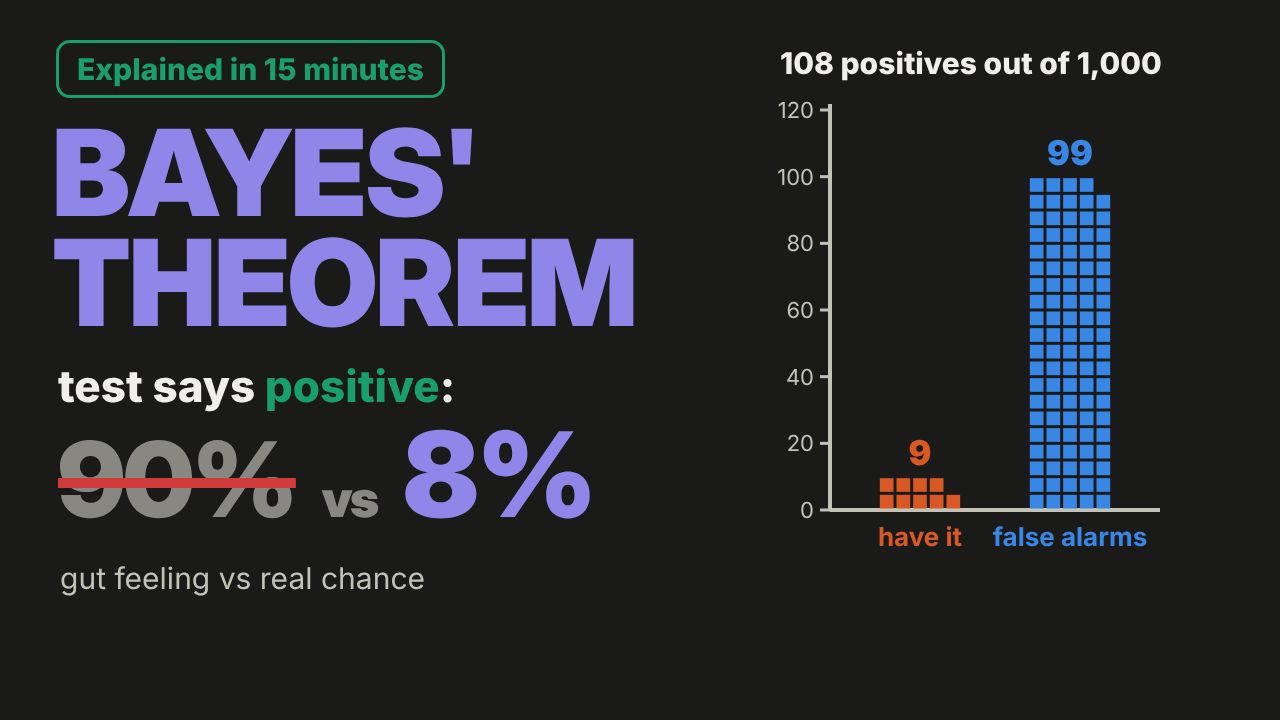
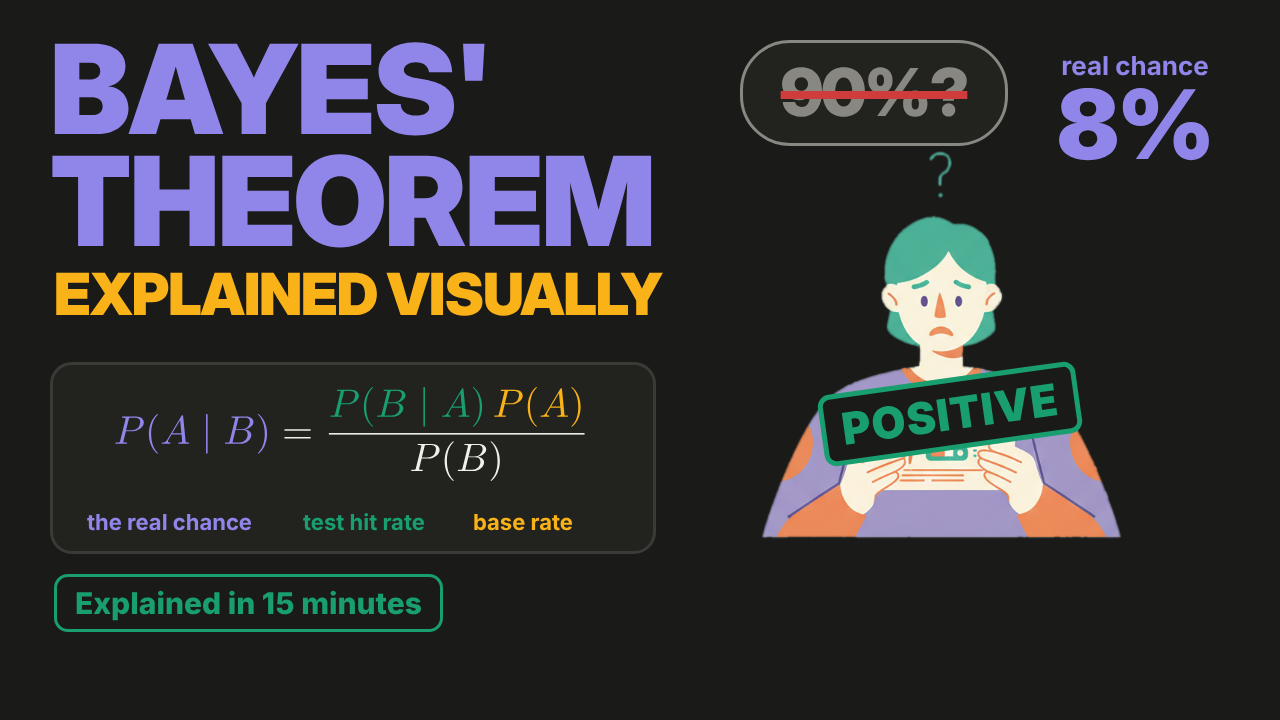
Bayes' theorem: redesigned thumbnails (headline, formula, illustration and crowd diagram)
Claude-Session: https://claude.ai/code/session_012YaKzWy4DSwyZoxQdd3wyq

diff --git a/bayes-theorem/thumbs.py b/bayes-theorem/thumbs.py
@@ -1,96 +1,139 @@
 #!/usr/bin/env python3
 """Two 1280x720 thumbnails (A/B) for YouTube Test & compare, rendered from HTML with Playwright.
-Both use the running example: 1,000 people → 9 real positives vs 99 false alarms → 9/108 ≈ 8%."""
-import json, pathlib, subprocess
+
+Both lead with the keyword headline "BAYES' THEOREM / EXPLAINED VISUALLY" and the colour-coded formula
+(typeset with LaTeX -> SVG), plus a relatable picture from the running example:
+  A: a worried person holding a POSITIVE result (illustration generated with gen.py, background cut out),
+     "90%?" (gut) vs "real chance: 8%".
+  B: the 1,000-person grid from the video (9 real positives, 99 false alarms lit up) -> 9 vs 99 -> 8%.
+"""
+import json, pathlib, re, subprocess
+import numpy as np
 
 HERE = pathlib.Path(__file__).parent
 OUT = HERE / "out" / "youtube"; OUT.mkdir(parents=True, exist_ok=True)
 MINS = round(json.loads((HERE / "timings.json").read_text())["total"] / 60)
 C = dict(bg="#1a1a19", blue="#3987e5", orange="#d95926", aqua="#199e70", violet="#9085e9", warn="#fab219",
          ink="#f0efec", ink2="#c3c2b7", muted="#898781", red="#d03b3b", card="#22221f")
+PERSON = (HERE / "assets" / "worried_cut.png").resolve()
+
+# Same crowd as the video (common.py): 40 x 25, sick = column 0 top ten rows, 99 scattered false alarms
+COLS, ROWS = 40, 25
+SICK = [(0, ROWS - 1 - k) for k in range(10)]
+_sick = set(SICK)
+HEALTHY = [(c, r) for r in range(ROWS - 1, -1, -1) for c in range(COLS) if (c, r) not in _sick]
+FALSE_POS = [HEALTHY[k] for k in sorted(np.random.default_rng(7).choice(990, 99, replace=False))]
 
 
-def stacks_svg(x0, y0, h, cell, per_row=5, label_fs=34, tick_fs=22, ymax=120, step=20, xs=(90, 240), axis_w=330,
-               names=("have it", "false alarms"), name_fs=26):
-    """Countable stacks on a numbered y axis: 9 orange (have it) vs 99 blue (false alarms)."""
-    unit = h / ymax                       # px per person
-    pitch = per_row * unit                # one row of squares = per_row people
-    out = [f'<line x1="{x0}" y1="{y0}" x2="{x0}" y2="{y0 - h - 6}" stroke="{C["ink2"]}" stroke-width="4"/>',
-           f'<line x1="{x0}" y1="{y0}" x2="{x0 + axis_w}" y2="{y0}" stroke="{C["ink2"]}" stroke-width="4"/>']
-    for v in range(0, ymax + 1, step):
-        y = y0 - v * unit
-        out.append(f'<line x1="{x0 - 10}" y1="{y}" x2="{x0}" y2="{y}" stroke="{C["ink2"]}" stroke-width="3"/>')
-        out.append(f'<text x="{x0 - 16}" y="{y + 8}" fill="{C["ink2"]}" font-size="{tick_fs}" text-anchor="end">{v}</text>')
-    for n, cx, col, lab, name in ((9, x0 + xs[0], C["orange"], "9", names[0]), (99, x0 + xs[1], C["blue"], "99", names[1])):
-        left = cx - per_row * pitch / 2
-        for k in range(n):
-            c, r = k % per_row, k // per_row
-            out.append(f'<rect x="{left + c * pitch + 1.5}" y="{y0 - (r + 1) * pitch + 1.5}" width="{pitch - 3}" height="{pitch - 3}" fill="{col}"/>')
-        top = y0 - math_ceil(n / per_row) * pitch
-        out.append(f'<text x="{cx}" y="{top - 12}" fill="{col}" font-size="{label_fs}" font-weight="900" text-anchor="middle">{lab}</text>')
-        out.append(f'<text x="{cx}" y="{y0 + 36}" fill="{col}" font-size="{name_fs}" font-weight="700" text-anchor="middle">{name}</text>')
-    return "\n".join(out)
+def formula_svg(width):
+    """Typeset the formula with LaTeX (colours: posterior violet, likelihood aqua, prior yellow)."""
+    d = HERE / "build" / "tex"; d.mkdir(parents=True, exist_ok=True)
+    (d / "f.tex").write_text(r"""\documentclass[preview,border=2pt]{standalone}
+\usepackage{xcolor,amsmath}
+\definecolor{vio}{HTML}{9085E9}\definecolor{aq}{HTML}{199E70}\definecolor{wa}{HTML}{FAB219}\definecolor{ink}{HTML}{F0EFEC}
+\begin{document}
+\color{ink}$\displaystyle {\color{vio}P(A\mid B)} = \frac{{\color{aq}P(B\mid A)}\,{\color{wa}P(A)}}{P(B)}$
+\end{document}
+""")
+    subprocess.run(["latex", "-interaction=nonstopmode", "f.tex"], cwd=d, check=True, capture_output=True)
+    subprocess.run(["dvisvgm", "--no-fonts", "--exact", "f.dvi", "-o", "formula.svg"], cwd=d, check=True, capture_output=True)
+    svg = (d / "formula.svg").read_text()
+    svg = svg[svg.index("<svg"):]
+    vb = [float(x) for x in re.search(r"viewBox='([^']+)'", svg).group(1).split()]
+    h = width * vb[3] / vb[2]
+    svg = re.sub(r"width='[^']+' height='[^']+'", f"width='{width:.0f}' height='{h:.0f}'", svg, count=1)
+    return svg, h
 
 
-def math_ceil(x):
-    return int(-(-x // 1))
+def crowd_svg(cell):
+    """The 1,000-person grid: 9 real positives (orange, ringed), 99 false alarms (blue, ringed), rest dimmed."""
+    tp, fp = set(SICK[:9]), set(FALSE_POS)
+    out = []
+    for r in range(ROWS):
+        for c in range(COLS):
+            x, y = c * cell, (ROWS - 1 - r) * cell
+            k = (c, r)
+            if k in tp:
+                col, op = C["orange"], 1
+            elif k in fp:
+                col, op = C["blue"], 1
+            elif k in _sick:
+                col, op = C["orange"], 0.35
+            else:
+                col, op = "#4a4a46", 1
+            out.append(f'<rect x="{x + 1}" y="{y + 1}" width="{cell - 2}" height="{cell - 2}" fill="{col}" opacity="{op}"/>')
+            if k in tp or k in fp:
+                out.append(f'<rect x="{x - 0.5}" y="{y - 0.5}" width="{cell + 1}" height="{cell + 1}" fill="none" stroke="{C["aqua"]}" stroke-width="2"/>')
+    return "\n".join(out), COLS * cell, ROWS * cell
 
 
 BASE = """<!doctype html><html><head><meta charset="utf-8"><style>
 html,body{margin:0;width:1280px;height:720px;background:%(bg)s;overflow:hidden;font-family:'Inter','Inter Display',sans-serif;color:%(ink)s}
-.h{font-family:'Inter Display','Inter';font-weight:900;letter-spacing:-2px;line-height:.92}
+.h{font-family:'Inter Display','Inter';font-weight:900;letter-spacing:-2px;line-height:.9}
 .badge{display:inline-block;border:3px solid %(aqua)s;color:%(aqua)s;border-radius:14px;padding:8px 18px;font-weight:800;font-size:30px}
+.card{background:%(card)s;border:3px solid #3a3a37;border-radius:22px}
+.lab{font-size:22px;font-weight:700}
 svg text{font-family:'Inter'}
 </style></head><body>%(body)s</body></html>"""
 
 
 def thumb_a():
-    svg = stacks_svg(70, 470, 400, None)
+    f, fh = formula_svg(470)
     body = f"""
-<div style="position:absolute;left:56px;top:40px" class="badge">Explained in {MINS} minutes</div>
-<div class="h" style="position:absolute;left:52px;top:118px;font-size:120px;color:{C['violet']}">BAYES'<br>THEOREM</div>
-<div style="position:absolute;left:58px;top:360px;font-size:44px;font-weight:800;line-height:1.2">
-  test says <span style="color:{C['aqua']}">positive</span>:</div>
-<div style="position:absolute;left:58px;top:420px;display:flex;align-items:baseline;gap:26px">
-  <div class="h" style="font-size:104px;color:{C['muted']};text-decoration:line-through;text-decoration-color:{C['red']};text-decoration-thickness:10px">90%</div>
-  <div class="h" style="font-size:52px;color:{C['muted']}">vs</div>
-  <div class="h" style="font-size:118px;color:{C['violet']}">8%</div>
+<div class="h" style="position:absolute;left:50px;top:34px;font-size:124px;color:{C['violet']}">BAYES'<br>THEOREM</div>
+<div class="h" style="position:absolute;left:54px;top:268px;font-size:58px;letter-spacing:-1px;color:{C['warn']}">EXPLAINED VISUALLY</div>
+<div class="card" style="position:absolute;left:50px;top:362px;width:600px;height:{fh + 92:.0f}px">
+  <div style="position:absolute;left:62px;top:22px">{f}</div>
+  <div class="lab" style="position:absolute;left:34px;bottom:16px;color:{C['violet']}">the real chance</div>
+  <div class="lab" style="position:absolute;left:250px;bottom:16px;color:{C['aqua']}">test hit rate</div>
+  <div class="lab" style="position:absolute;left:420px;bottom:16px;color:{C['warn']}">base rate</div>
 </div>
-<div style="position:absolute;left:60px;top:560px;font-size:30px;color:{C['ink2']}">gut feeling vs real chance</div>
-<svg style="position:absolute;left:760px;top:40px" width="480" height="560" viewBox="0 0 480 560">
-  <text x="20" y="34" fill="{C['ink']}" font-size="30" font-weight="800">108 positives out of 1,000</text>
-  {svg.replace('x1="70"', 'x1="70"')}
-</svg>"""
+<div style="position:absolute;left:54px;top:{362 + fh + 92 + 26:.0f}px" class="badge">Explained in {MINS} minutes</div>
+<img src="file://{PERSON}" style="position:absolute;left:760px;top:150px;height:390px">
+<div style="position:absolute;left:820px;top:378px;transform:rotate(-8deg);border:5px solid {C['aqua']};color:{C['aqua']};
+  background:{C['bg']};border-radius:12px;padding:4px 16px;font-size:44px;font-weight:900;letter-spacing:1px">POSITIVE</div>
+<div style="position:absolute;left:740px;top:40px;width:262px;height:100px;border-radius:50px;background:{C['card']};border:3px solid {C['muted']};
+  display:flex;align-items:center;justify-content:center"><span class="h" style="font-size:66px;color:{C['muted']};text-decoration:line-through;
+  text-decoration-color:{C['red']};text-decoration-thickness:8px">90%?</span></div>
+<div style="position:absolute;left:1030px;top:50px;width:210px;text-align:center">
+  <div class="lab" style="color:{C['violet']};font-size:26px">real chance</div>
+  <div class="h" style="font-size:96px;color:{C['violet']}">8%</div></div>"""
     return BASE % dict(C, body=body)
 
 
 def thumb_b():
-    svg = stacks_svg(50, 280, 220, None, label_fs=28, tick_fs=18, xs=(55, 130), axis_w=170, names=("real", "false"), name_fs=22)
+    f, fh = formula_svg(400)
+    grid, gw, gh = crowd_svg(13)
     body = f"""
-<div class="h" style="position:absolute;left:0;right:0;top:34px;text-align:center;font-size:128px;color:{C['violet']}">BAYES' THEOREM</div>
-<div style="position:absolute;left:56px;top:200px;width:560px;height:360px;border:4px solid {C['muted']};border-radius:24px;background:{C['card']}">
-  <div style="position:absolute;left:30px;top:22px;font-size:36px;font-weight:900;color:{C['muted']}">YOUR GUT</div>
-  <div class="h" style="position:absolute;left:30px;top:100px;font-size:170px;color:{C['muted']}">90%</div>
-  <div style="position:absolute;left:24px;top:182px;width:440px;height:12px;background:{C['red']};transform:rotate(-8deg)"></div>
-  <div style="position:absolute;left:30px;bottom:24px;font-size:32px;font-weight:700;color:{C['ink2']}">"the test is 90% accurate"</div>
+<div class="h" style="position:absolute;left:50px;top:30px;font-size:112px;color:{C['violet']}">BAYES' THEOREM</div>
+<div class="h" style="position:absolute;left:54px;top:146px;font-size:56px;letter-spacing:-1px;color:{C['warn']}">EXPLAINED VISUALLY</div>
+<div class="card" style="position:absolute;left:836px;top:156px;width:396px;height:{fh + 40:.0f}px">
+  <div style="position:absolute;left:18px;top:20px">{f.replace("width='400'", "width='360'").replace(f"height='{fh:.0f}'", f"height='{fh * 0.9:.0f}'")}</div></div>
+<div style="position:absolute;left:54px;top:236px;font-size:30px;font-weight:800">1,000 people take the test</div>
+<svg style="position:absolute;left:54px;top:286px" width="{gw}" height="{gh}" viewBox="0 0 {gw} {gh}">{grid}</svg>
+<div style="position:absolute;left:{54 + gw + 30}px;top:340px;font-size:64px;color:{C['ink2']}">→</div>
+<div style="position:absolute;left:{54 + gw + 110}px;top:318px;line-height:1.05">
+  <div style="font-size:30px;font-weight:800;color:{C['aqua']}">108 test POSITIVE</div>
+  <div class="h" style="font-size:70px;margin-top:14px"><span style="color:{C['orange']}">9</span>
+    <span style="font-size:34px;color:{C['orange']};letter-spacing:0">really have it</span></div>
+  <div class="h" style="font-size:70px;margin-top:6px"><span style="color:{C['blue']}">99</span>
+    <span style="font-size:34px;color:{C['blue']};letter-spacing:0">false alarms</span></div>
+  <div style="margin-top:18px;display:flex;align-items:baseline;gap:16px">
+    <span class="h" style="font-size:96px;color:{C['violet']}">8%</span>
+    <span style="font-size:30px;font-weight:800;color:{C['violet']}">real chance</span></div>
 </div>
-<div style="position:absolute;left:660px;top:200px;width:560px;height:360px;border:4px solid {C['violet']};border-radius:24px;background:{C['card']}">
-  <div style="position:absolute;left:30px;top:22px;font-size:36px;font-weight:900;color:{C['violet']}">REAL CHANCE</div>
-  <div class="h" style="position:absolute;left:30px;top:100px;font-size:170px;color:{C['violet']}">8%</div>
-  <svg style="position:absolute;left:330px;top:24px" width="220" height="330" viewBox="0 0 220 330">{svg}</svg>
-</div>
-<div style="position:absolute;left:56px;top:600px" class="badge">Explained in {MINS} minutes</div>"""
+<div style="position:absolute;left:54px;top:{286 + gh + 26:.0f}px" class="badge">Explained in {MINS} minutes</div>"""
     return BASE % dict(C, body=body)
 
 
 if __name__ == "__main__":
     shots = []
     for name, html in (("thumbnail_A.png", thumb_a()), ("thumbnail_B.png", thumb_b())):
-        h = HERE / "build" / name.replace(".png", ".html"); h.write_text(html); shots.append((str(h), str(OUT / name)))
+        h = HERE / "build" / name.replace(".png", ".html"); h.write_text(html); shots.append((str(h.resolve()), str(OUT / name)))
     js = HERE / "build" / "shot.js"
     js.write_text("""const { chromium } = require('playwright');
 (async () => { const b = await chromium.launch(); const p = await b.newPage({viewport:{width:1280,height:720}, deviceScaleFactor:1});
-for (const [src, dst] of JSON.parse(process.argv[2])) { await p.goto('file://' + src); await p.waitForTimeout(400); await p.screenshot({path: dst}); }
+for (const [src, dst] of JSON.parse(process.argv[2])) { await p.goto('file://' + src); await p.waitForTimeout(500); await p.screenshot({path: dst}); }
 await b.close(); })();""")
     subprocess.run(["node", str(js), json.dumps(shots)], check=True)
     from PIL import Image
